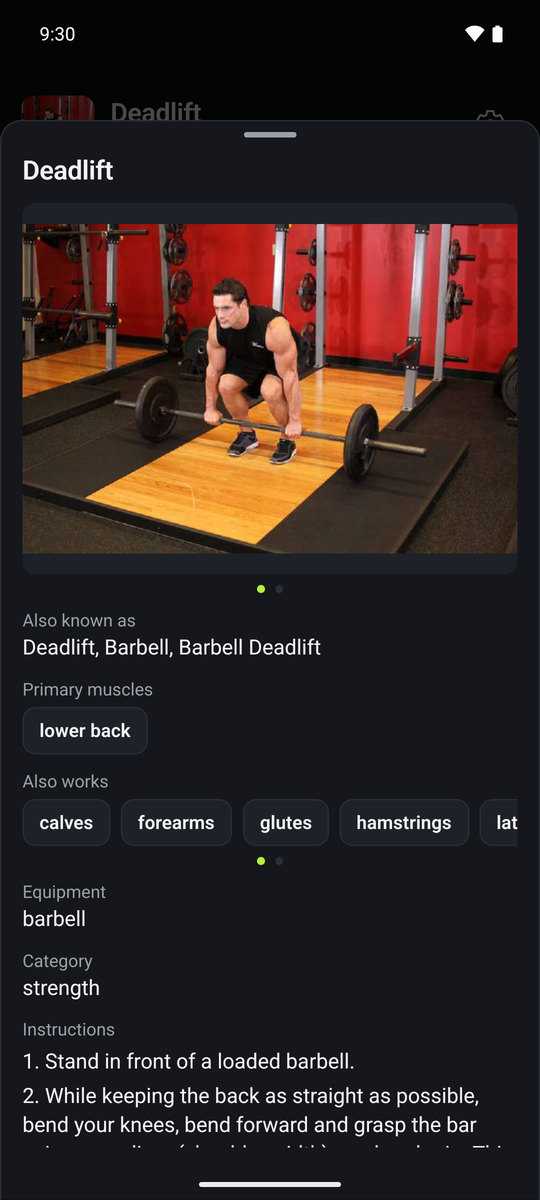
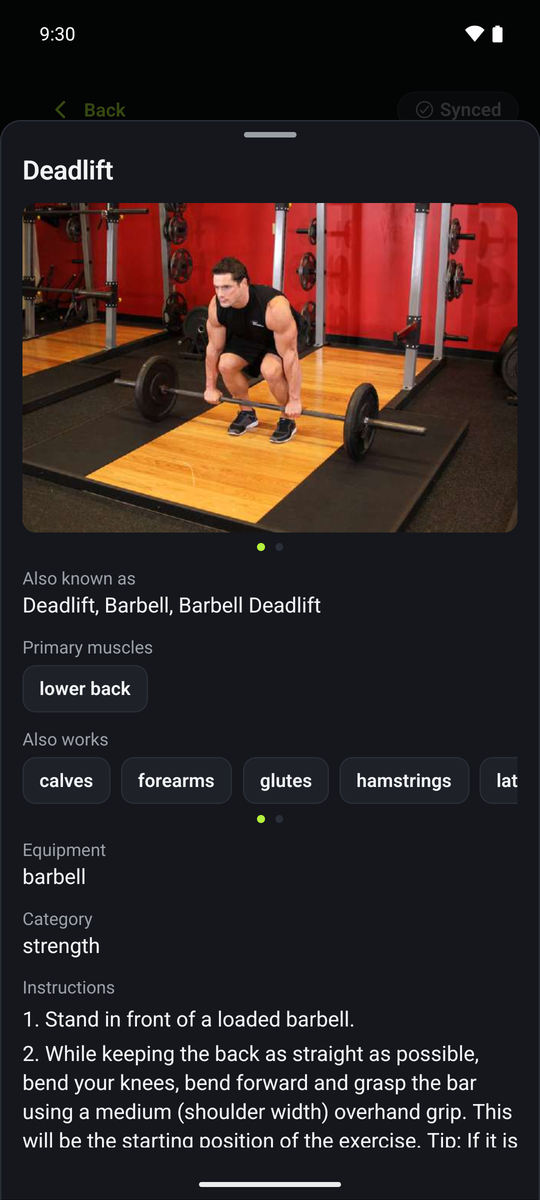
fix(app): timed sets in Last time, On target as a badge, carousel dots settle

diff --git a/app/src/features/workout/ExercisePane.tsx b/app/src/features/workout/ExercisePane.tsx
@@ -5,7 +5,6 @@ import { useExerciseInfo } from "../../data/exerciseInfo";
 import { clock } from "../../domain/dates";
 import { exerciseTarget } from "../../domain/sets";
 import type { ExerciseEntry, Unit, WorkoutRecord } from "../../domain/types";
-import { round1 } from "../../domain/units";
 import {
   Badge,
   Button,
@@ -49,22 +48,21 @@ type Props = {
   onNext: () => void;
 };
 
-// "On target · 15 / 15 reps · 1500 / 1500 kg": done against planned over every set, tonnage in the
-// user's unit; an ad hoc exercise has no plan to compare with, so just "10 reps · 200 kg". A
-// bodyweight exercise moves no logged weight, so it gets no tonnage. A timed exercise counts sets
-// and time instead: "1 / 3 sets · 0:50 / 3:00".
+// "15 / 15 reps · 1500 / 1500 kg": done against planned over every set, tonnage in whole units
+// so the line fits a phone; an ad hoc exercise has no plan to compare with, so just "10 reps ·
+// 200 kg". A bodyweight exercise moves no logged weight, so it gets no tonnage. A timed exercise
+// counts sets and time instead: "1 / 3 sets · 0:50 / 3:00". Meeting the plan is a badge.
 function summary(entry: ExerciseEntry, unit: Unit) {
   const t = exerciseTarget(entry.sets, entry.unilateral, unit);
-  const met = t.met ? "On target · " : "";
   if (t.plannedWork) {
     const done = entry.sets.filter((s) => s.completed).length;
-    return `${met}${done} / ${entry.sets.length} sets · ${clock(t.work)} / ${clock(t.plannedWork)}`;
+    return `${done} / ${entry.sets.length} sets · ${clock(t.work)} / ${clock(t.plannedWork)}`;
   }
-  const [load, planned] = [round1(t.load), round1(t.plannedLoad)];
+  const [load, planned] = [Math.round(t.load), Math.round(t.plannedLoad)];
   const weighed = load > 0 || planned > 0;
   if (!t.plannedReps) return `${t.reps} reps${weighed ? ` · ${load} ${unit}` : ""}`;
   const tonnage = weighed ? ` · ${load} / ${planned} ${unit}` : "";
-  return `${met}${t.reps} / ${t.plannedReps} reps${tonnage}`;
+  return `${t.reps} / ${t.plannedReps} reps${tonnage}`;
 }
 
 // shortcut: a note is "long" by its length, not its laid-out lines, since the web has no
@@ -105,6 +103,9 @@ export function ExercisePane(p: Props) {
               {summary(entry, unit)}
             </Text>
             <View style={{ flexDirection: "row", gap: space[2] }}>
+              {exerciseTarget(entry.sets, entry.unilateral, unit).met && (
+                <Badge label="On target" icon="checkmark" testID={`exercise-${index}-on-target`} />
+              )}
               {entry.superset ? (
                 <Badge label={`Superset ${entry.superset}`} icon="link-outline" />
               ) : null}

diff --git a/app/src/domain/lastSession.ts b/app/src/domain/lastSession.ts
@@ -1,3 +1,4 @@
+import { clock } from "./dates";
 import { runs } from "./sets";
 import type { ExerciseEntry, ResolvedSet, SetEntry, Unit, Weight, WorkoutRecord } from "./types";
 import { formatWeight, inUnit, round1, toKg } from "./units";
@@ -66,12 +67,16 @@ export const setLine = (s: Lifted, unit: Unit, unilateral = false) =>
       : `${s.reps} reps`;
 
 // "2x5 80 kg · 1x5 65 kg", like setsSummary for the plan.
+// A timed set is its time ("0:45"), a lifted one its reps.
+const effort = (s: SetEntry, unilateral: boolean) =>
+  s.workTime || s.planned.work ? clock(s.workTime ?? s.planned.work) : reps(s, unilateral, "");
+
 export const doneSummary = (sets: SetEntry[], unilateral: boolean, unit: Unit) =>
   runs(
     sets.map((s) =>
       s.weight.value
-        ? `${reps(s, unilateral, "")} ${formatWeight(s.weight, unit)}`
-        : reps(s, unilateral, ""),
+        ? `${effort(s, unilateral)} ${formatWeight(s.weight, unit)}`
+        : effort(s, unilateral),
     ),
   ).join(" · ");
 

diff --git a/app/src/features/workout/WorkoutScreen.test.tsx b/app/src/features/workout/WorkoutScreen.test.tsx
@@ -377,11 +377,12 @@ describe("WorkoutScreen", () => {
     );
     for (const i of all.keys()) await fireEvent.press(screen.getByTestId(`set-1-${i}-done`));
     expect(screen.getByTestId("exercise-1-summary")).toHaveTextContent(
-      `On target · ${reps} / ${reps} reps · ${kg} / ${kg} kg`,
+      `${reps} / ${reps} reps · ${kg} / ${kg} kg`,
     );
+    expect(screen.getByTestId("exercise-1-on-target")).toBeOnTheScreen();
     expect(screen.getByText(`1 of ${entries.length} exercises on target`)).toBeOnTheScreen();
     await fireEvent.press(screen.getByTestId("set-1-0-done"));
-    expect(screen.getByTestId("exercise-1-summary")).not.toHaveTextContent(/On target/);
+    expect(screen.queryByTestId("exercise-1-on-target")).toBeNull();
     expect(screen.getByText(`0 of ${entries.length} exercises on target`)).toBeOnTheScreen();
   });
 

diff --git a/app/src/domain/lastSession.test.ts b/app/src/domain/lastSession.test.ts
@@ -98,6 +98,12 @@ describe("setLine and doneSummary", () => {
     expect(setLine(done(8, 20, { repsLeft: 7 }), "kg", true)).toBe("20 kg x L 7 R 8");
   });
 
+  it("shows a timed set as its time, logged or planned", () => {
+    const timed = (workTime?: number) =>
+      done(1, 0, { workTime, planned: { ...sets(1, 1, 0)[0], work: 45 } });
+    expect(doneSummary([timed(50), timed(50), timed()], false, "kg")).toBe("2x0:50 · 1x0:45");
+  });
+
   it("collapses equal sets like the plan summary", () => {
     const all = [done(5, 80), done(5, 80), done(5, 65), done(10, 0)];
     expect(doneSummary(all, false, "kg")).toBe("2x5 80 kg · 1x5 65 kg · 1x10");

diff --git a/app/src/ui/Carousel.tsx b/app/src/ui/Carousel.tsx
@@ -43,6 +43,7 @@ export function Carousel<T>({ items, renderItem, testID }: Props<T>) {
             showsHorizontalScrollIndicator={false}
             scrollEventThrottle={16}
             onScroll={(e) => onScroll(e.nativeEvent)}
+            onMomentumScrollEnd={(e) => onScroll(e.nativeEvent)}
             style={{ borderRadius: radius.control, backgroundColor: colors.surfaceRaised }}
           >
             {items.map((item, i) => (
